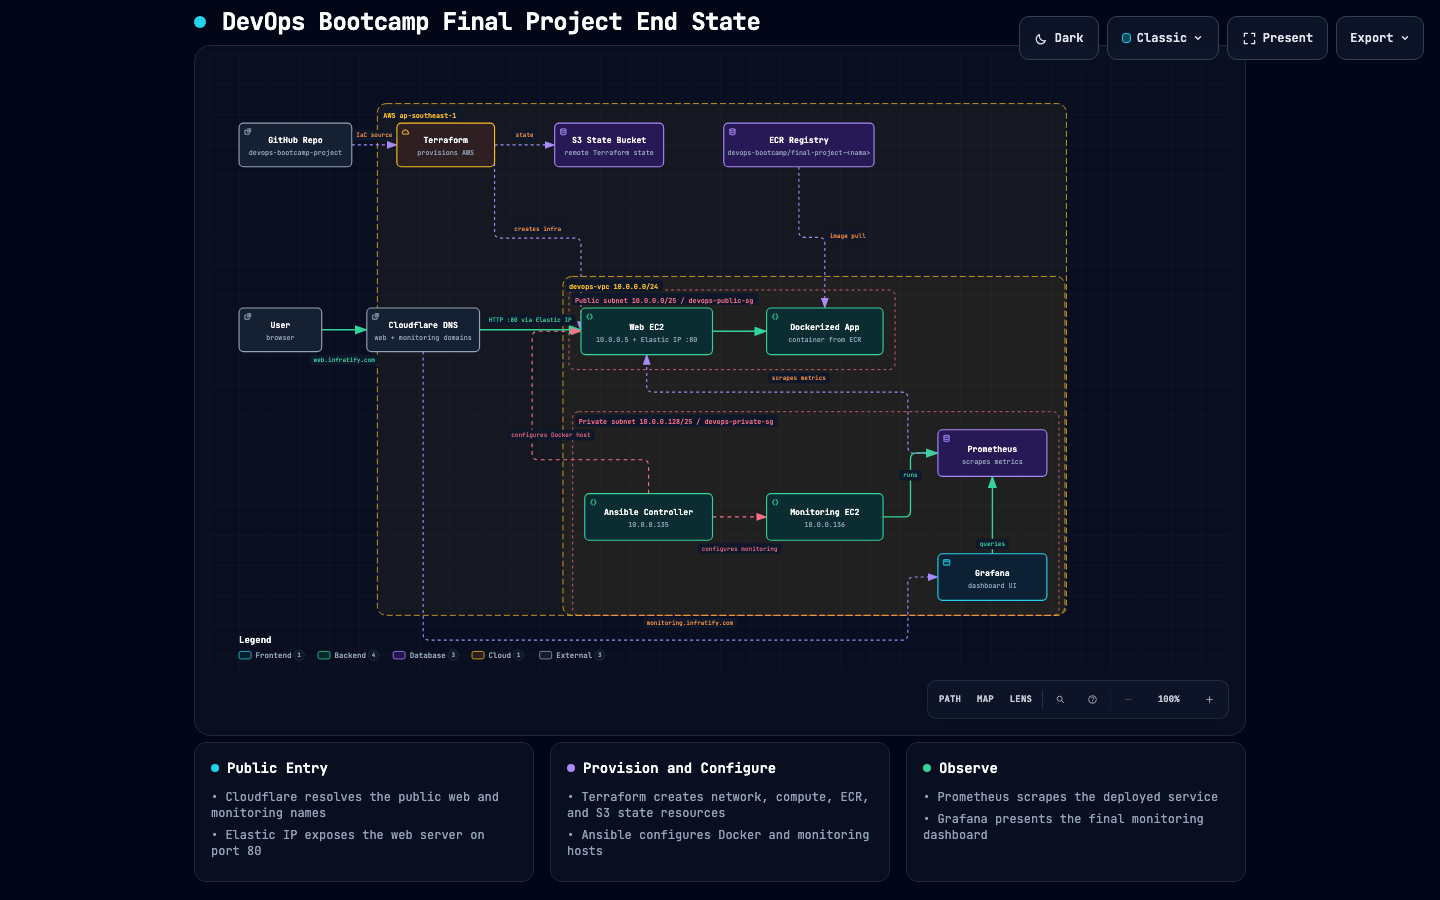
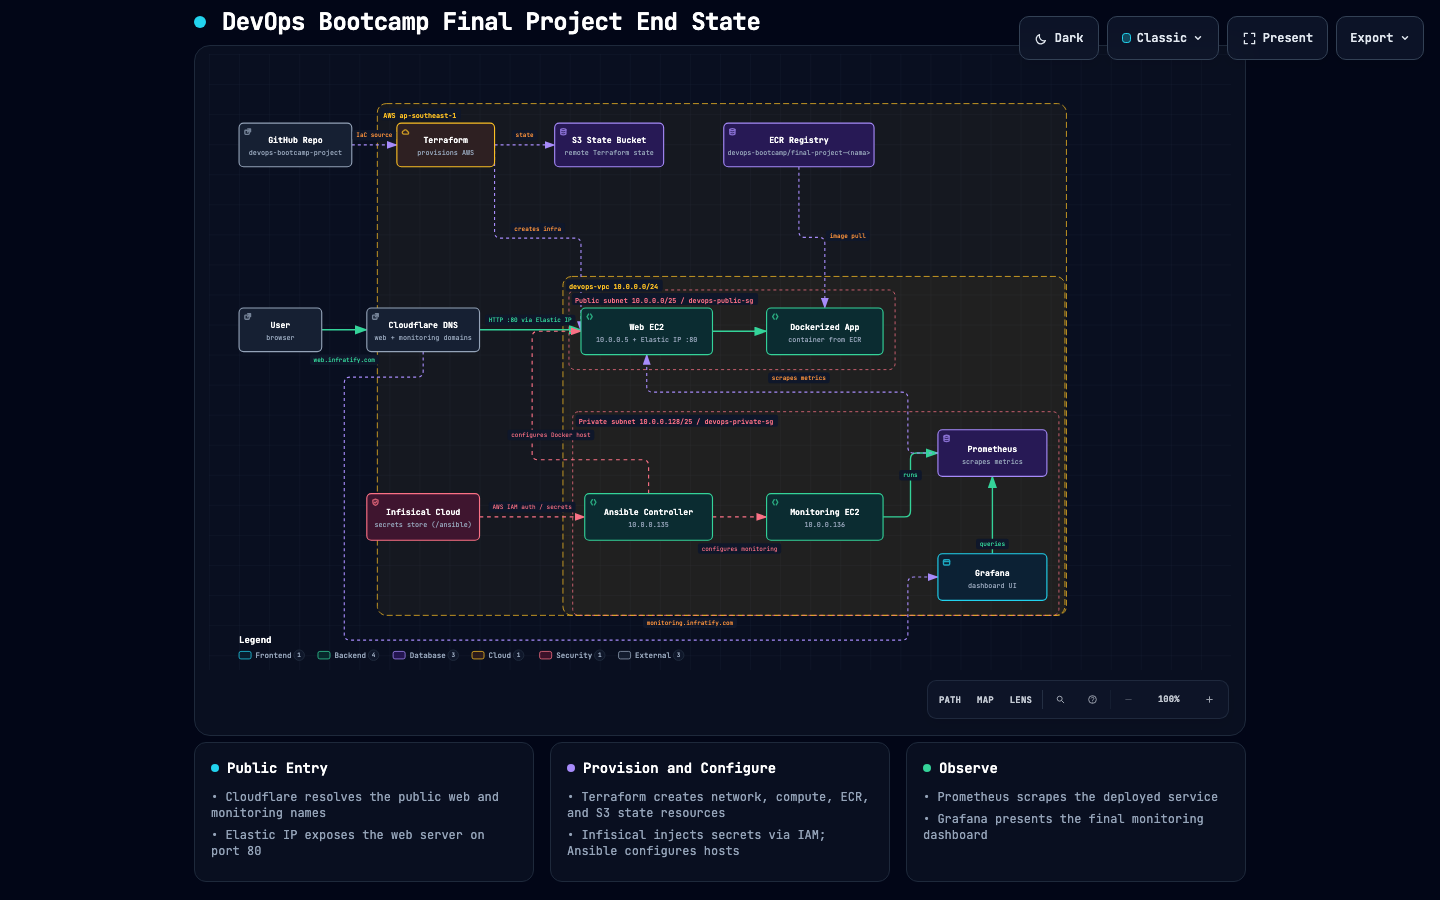
docs(secrets): include Infisical Cloud in end-state architecture diagram

diff --git a/docs/assets/final-project-end-state.html b/docs/assets/final-project-end-state.html
@@ -5048,10 +5048,11 @@
         <path data-edge-from="terraform" data-edge-to="webec2" data-edge-label="creates infra" data-edge-key="6" data-composition-points="380,121;380,245;495,245;495,369" d="M 380 121 L 380 237 Q 380 245 388 245 L 487 245 Q 495 245 495 253 L 495 369" class="a-dashed" stroke-width="1.5" marker-end="url(#arrowhead-dashed)"/>
         <path data-edge-from="ansible" data-edge-to="webec2" data-edge-label="configures Docker host" data-edge-key="7" data-composition-points="585,585;585,540;430,540;430,369;495,369" d="M 585 585 L 585 548 Q 585 540 577 540 L 438 540 Q 430 540 430 532 L 430 377 Q 430 369 438 369 L 495 369" class="a-security" stroke-width="1.5" marker-end="url(#arrowhead-security)"/>
         <path data-edge-from="ansible" data-edge-to="monitoring" data-edge-label="configures monitoring" data-edge-key="8" data-composition-points="670,616;742,616" d="M 670 616 L 742 616" class="a-security" stroke-width="1.5" marker-end="url(#arrowhead-security)"/>
-        <path data-edge-from="monitoring" data-edge-to="prometheus" data-edge-label="runs" data-edge-key="9" data-composition-points="897,616;933.5,616;933.5,531;970,531" d="M 897 616 L 925.5 616 Q 933.5 616 933.5 608 L 933.5 539 Q 933.5 531 941.5 531 L 970 531" class="a-emphasis" stroke-width="1.8" marker-end="url(#arrowhead-emphasis)"/>
-        <path data-edge-from="prometheus" data-edge-to="webec2" data-edge-label="scrapes metrics" data-edge-key="10" data-composition-points="970,531;930,531;930,450;582.5,450;582.5,400" d="M 970 531 L 938 531 Q 930 531 930 523 L 930 458 Q 930 450 922 450 L 590.5 450 Q 582.5 450 582.5 442 L 582.5 400" class="a-dashed" stroke-width="1.5" marker-end="url(#arrowhead-dashed)"/>
-        <path data-edge-from="grafana" data-edge-to="prometheus" data-edge-label="queries" data-edge-key="11" data-composition-points="1042.5,665;1042.5,562" d="M 1042.5 665 L 1042.5 562" class="a-emphasis" stroke-width="1.8" marker-end="url(#arrowhead-emphasis)"/>
-        <path data-edge-from="cloudflare" data-edge-to="grafana" data-edge-label="monitoring.infratify.com" data-edge-key="12" data-composition-points="285,396;285,780;930,780;930,696;970,696" d="M 285 396 L 285 772 Q 285 780 293 780 L 922 780 Q 930 780 930 772 L 930 704 Q 930 696 938 696 L 970 696" class="a-dashed" stroke-width="1.5" marker-end="url(#arrowhead-dashed)"/>
+        <path data-edge-from="infisical" data-edge-to="ansible" data-edge-label="AWS IAM auth / secrets" data-edge-key="9" data-composition-points="360,616;500,616" d="M 360 616 L 500 616" class="a-security" stroke-width="1.5" marker-end="url(#arrowhead-security)"/>
+        <path data-edge-from="monitoring" data-edge-to="prometheus" data-edge-label="runs" data-edge-key="10" data-composition-points="897,616;933.5,616;933.5,531;970,531" d="M 897 616 L 925.5 616 Q 933.5 616 933.5 608 L 933.5 539 Q 933.5 531 941.5 531 L 970 531" class="a-emphasis" stroke-width="1.8" marker-end="url(#arrowhead-emphasis)"/>
+        <path data-edge-from="prometheus" data-edge-to="webec2" data-edge-label="scrapes metrics" data-edge-key="11" data-composition-points="970,531;930,531;930,450;582.5,450;582.5,400" d="M 970 531 L 938 531 Q 930 531 930 523 L 930 458 Q 930 450 922 450 L 590.5 450 Q 582.5 450 582.5 442 L 582.5 400" class="a-dashed" stroke-width="1.5" marker-end="url(#arrowhead-dashed)"/>
+        <path data-edge-from="grafana" data-edge-to="prometheus" data-edge-label="queries" data-edge-key="12" data-composition-points="1042.5,665;1042.5,562" d="M 1042.5 665 L 1042.5 562" class="a-emphasis" stroke-width="1.8" marker-end="url(#arrowhead-emphasis)"/>
+        <path data-edge-from="cloudflare" data-edge-to="grafana" data-edge-label="monitoring.infratify.com" data-edge-key="13" data-composition-points="285,396;285,430;180,430;180,780;930,780;930,696;970,696" d="M 285 396 L 285 422 Q 285 430 277 430 L 188 430 Q 180 430 180 438 L 180 772 Q 180 780 188 780 L 922 780 Q 930 780 930 772 L 930 704 Q 930 696 938 696 L 970 696" class="a-dashed" stroke-width="1.5" marker-end="url(#arrowhead-dashed)"/>
 
         <!-- Components -->
         <g id="node-user" data-node-id="user" data-node-label="User" tabindex="0" role="button" aria-label="Focus User, browser, Architecture component" aria-pressed="false" data-node-kind="external" data-node-sublabel="browser" data-node-context="Architecture component">
@@ -5198,6 +5199,18 @@
         <text data-detail="context" x="1042.5" y="710" class="t-muted" font-size="9" text-anchor="middle">dashboard UI</text>
         </g>
 
+        <g id="node-infisical" data-node-id="infisical" data-node-label="Infisical Cloud" tabindex="0" role="button" aria-label="Focus Infisical Cloud, secrets store (/ansible), Architecture component" aria-pressed="false" data-node-kind="security" data-node-sublabel="secrets store (/ansible)" data-node-context="Architecture component">
+          <title>Infisical Cloud · secrets store (/ansible) · Architecture component</title>
+          <rect x="210" y="585" width="150" height="62" rx="6" class="c-mask"/>
+          <rect x="210" y="585" width="150" height="62" rx="6" class="c-security" stroke-width="1.5"/>
+          <g aria-hidden="true" data-semantic-sigil="security" class="semantic-sigil s-security" transform="translate(216 591) scale(0.6875)">
+            <path d="M8 2.2 13 4v3.5c0 3.1-1.8 5.4-5 6.5-3.2-1.1-5-3.4-5-6.5V4Z"/>
+            <path d="m5.8 8 1.5 1.5 3-3"/>
+          </g>
+          <text data-node-label="" data-detail-anchor="" x="285" y="614" class="t-primary" font-size="11" font-weight="600" text-anchor="middle">Infisical Cloud</text>
+        <text data-detail="context" x="285" y="630" class="t-muted" font-size="9" text-anchor="middle">secrets store (/ansible)</text>
+        </g>
+
         <!-- Connection labels -->
         <g data-detail="context" data-edge-from="user" data-edge-to="cloudflare" data-edge-label="web.infratify.com" data-edge-key="0">
           <rect x="134.2" y="400" width="91.6" height="14" rx="3" class="c-mask"/>
@@ -5232,19 +5245,23 @@
           <rect x="650.6" y="651" width="110.8" height="14" rx="3" class="c-mask"/>
           <text x="706" y="661" class="t-security" font-size="8" text-anchor="middle">configures monitoring</text>
         </g>
-        <g data-detail="context" data-edge-from="monitoring" data-edge-to="prometheus" data-edge-label="runs" data-edge-key="9">
+        <g data-detail="context" data-edge-from="infisical" data-edge-to="ansible" data-edge-label="AWS IAM auth / secrets" data-edge-key="9">
+          <rect x="372.2" y="596" width="115.6" height="14" rx="3" class="c-mask"/>
+          <text x="430" y="606" class="t-security" font-size="8" text-anchor="middle">AWS IAM auth / secrets</text>
+        </g>
+        <g data-detail="context" data-edge-from="monitoring" data-edge-to="prometheus" data-edge-label="runs" data-edge-key="10">
           <rect x="918.5" y="553.5" width="30" height="14" rx="3" class="c-mask"/>
           <text x="933.5" y="563.5" class="t-backend" font-size="8" text-anchor="middle">runs</text>
         </g>
-        <g data-detail="context" data-edge-from="prometheus" data-edge-to="webec2" data-edge-label="scrapes metrics" data-edge-key="10">
+        <g data-detail="context" data-edge-from="prometheus" data-edge-to="webec2" data-edge-label="scrapes metrics" data-edge-key="11">
           <rect x="744" y="424" width="82" height="14" rx="3" class="c-mask"/>
           <text x="785" y="434" class="t-messagebus" font-size="8" text-anchor="middle">scrapes metrics</text>
         </g>
-        <g data-detail="context" data-edge-from="grafana" data-edge-to="prometheus" data-edge-label="queries" data-edge-key="11">
+        <g data-detail="context" data-edge-from="grafana" data-edge-to="prometheus" data-edge-label="queries" data-edge-key="12">
           <rect x="1020.7" y="645" width="43.6" height="14" rx="3" class="c-mask"/>
           <text x="1042.5" y="655" class="t-backend" font-size="8" text-anchor="middle">queries</text>
         </g>
-        <g data-detail="context" data-edge-from="cloudflare" data-edge-to="grafana" data-edge-label="monitoring.infratify.com" data-edge-key="12">
+        <g data-detail="context" data-edge-from="cloudflare" data-edge-to="grafana" data-edge-label="monitoring.infratify.com" data-edge-key="13">
           <rect x="577.4" y="750" width="125.19999999999999" height="14" rx="3" class="c-mask"/>
           <text x="640" y="760" class="t-messagebus" font-size="8" text-anchor="middle">monitoring.infratify.com</text>
         </g>
@@ -5289,9 +5306,13 @@
             <rect x="350" y="795" width="16" height="10" rx="2.5" class="c-cloud" stroke-width="1"/>
             <text x="372" y="804" class="t-muted" font-size="10" font-weight="500">Cloud</text>
           </g>
-          <g data-legend-semantic-kind="external" data-legend-kind="external" data-legend-label="External" data-legend-x="440" data-legend-baseline="804" data-legend-width="83">
-            <rect x="440" y="795" width="16" height="10" rx="2.5" class="c-external" stroke-width="1"/>
-            <text x="462" y="804" class="t-muted" font-size="10" font-weight="500">External</text>
+          <g data-legend-semantic-kind="security" data-legend-kind="security" data-legend-label="Security" data-legend-x="440" data-legend-baseline="804" data-legend-width="83">
+            <rect x="440" y="795" width="16" height="10" rx="2.5" class="c-security" stroke-width="1"/>
+            <text x="462" y="804" class="t-muted" font-size="10" font-weight="500">Security</text>
+          </g>
+          <g data-legend-semantic-kind="external" data-legend-kind="external" data-legend-label="External" data-legend-x="545" data-legend-baseline="804" data-legend-width="83">
+            <rect x="545" y="795" width="16" height="10" rx="2.5" class="c-external" stroke-width="1"/>
+            <text x="567" y="804" class="t-muted" font-size="10" font-weight="500">External</text>
           </g>
         </g>
       </svg>
@@ -5498,7 +5519,7 @@
         </div>
         <ul>
           <li>&bull; Terraform creates network, compute, ECR, and S3 state resources</li>
-          <li>&bull; Ansible configures Docker and monitoring hosts</li>
+          <li>&bull; Infisical injects secrets via IAM; Ansible configures hosts</li>
         </ul>
       </div>
 
